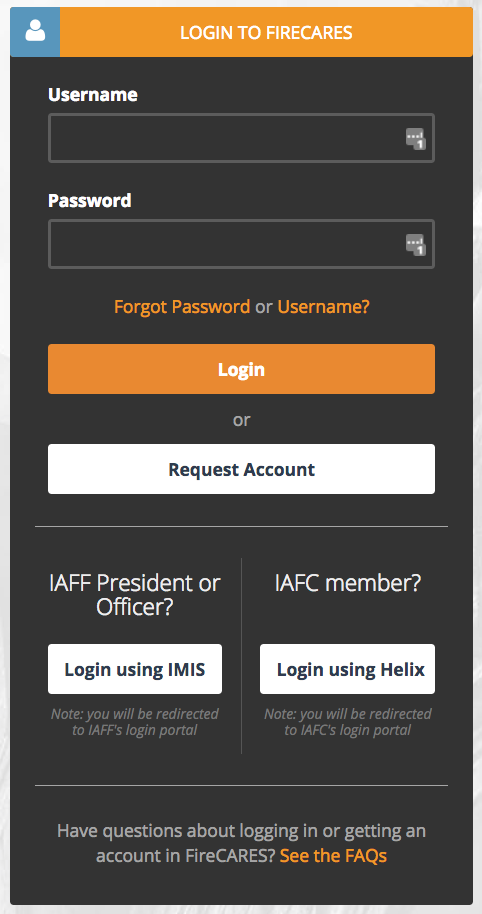
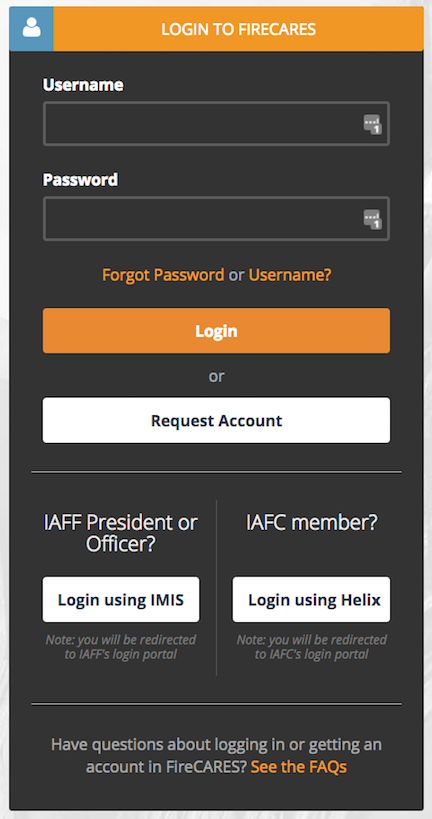
update User Guide and cleanup images

diff --git a/User_Guide/User_Guide.tex b/User_Guide/User_Guide.tex
@@ -54,9 +54,9 @@ are deployed to match a community's risks. \\
 \frontmatter
 \pagecolor{white}
 
-\newpage
-\hspace{5in}
-\newpage
+% \newpage
+% \hspace{5in}
+% \newpage
 
 \pagestyle{fancy}{
 \fancyhf{}
@@ -200,7 +200,7 @@ A community's set of safe grades represent an assessment of the number of fires,
 
 For each category, your department is compared against similar departments and based on the risk group (low, medium, high) the community falls within for the respective category (see above). Then based on your performance score relative to those other departments, your safe grade is either good, fair, or poor. A {\it good}, safe grade represents the top 25\%, a {\it fair} safe grade represents the median 50\%, and a {\it poor} safe grade represents the bottom 25\%.
 
-Note that all three scores can be filtered by the hazard level of structures: low, medium, and high as defined by NFPA. This is filterable on the department landing page by clicking on the the hazard level bar above the performance score. 
+All three scores can be filtered by the hazard level of structures: low, medium, and high as defined by NFPA. This is filterable on the department landing page by clicking on the the hazard level bar above the performance score. 
 
 \chapter{Using FireCARES.org}
 
@@ -224,7 +224,7 @@ If you know the department you are looking for, enter it in the search bar and c
 
 \FloatBarrier
 
-Clicking on a department's map image or name will take you to that departments landing page. Note that if you are not logged in, the department page will look like Figure~\ref{fig:department_page_nologin}. Note that of the three scores generated by FireCARES, only the community risk scores are available without login. The fire department performance score and safe grades are only available upon login.
+Clicking on a department's map image or name will take you to that departments landing page. Note that if you are not logged in, the department page will look like Figure~\ref{fig:department_page_nologin}. For the three scores generated by FireCARES, only the community risk scores are available without login. The fire department performance score and safe grades are only available upon login and will appear `gray-ed out'.
 
 \begin{figure}[ht!]
 \centering
@@ -233,39 +233,33 @@ Clicking on a department's map image or name will take you to that departments l
 \label{fig:department_page_nologin}
 \end{figure}
 
+\FloatBarrier
+
 \section{Logging In}
 
-Login credentials will be granted to the fire chief, the local union president (when applicable) and/or their designees. If you are an IAFF president or an IAFF officer, you can login using your IMIS credentials. If you an IAFC member, you can login using your Helix credentials. Figure~\ref{fig:login} shows the FireCARES login dialog box.
+Login credentials will be granted to the fire chief, the local union president (when applicable) and/or their designees. If you are an IAFF president or an IAFF officer, you can login using your IMIS credentials. If you an IAFC member, you can login using your Helix credentials. The left image in Figure~\ref{fig:login} shows the FireCARES login dialog box.
 
 \begin{figure}[ht!]
 \centering
-\includegraphics[width=.5\columnwidth]{Figures/login}
-\caption{FireCARES Login Dialog}
+\includegraphics[width=.45\columnwidth]{Figures/login}
+\includegraphics[width=.45\columnwidth]{Figures/login2}
+\caption{FireCARES Login Dialog (left) and Registration Dialog (right)}
 \label{fig:login}
 \end{figure}
 
-If you do not have an account, are not sure if you have an account, or IMIS/Helix to not apply, click on the request account box. Enter your email and click the `Check registration' box. If you do have an account, a request for an account from that email address will be made. If an account associated with that email exists, then you will be redirected back to the login page. 
+If you do not have an account, are not sure if you have an account, or IMIS/Helix do not apply, click on the request account box. Enter your email and click the `Check registration' box. If you do have an account, a request for an account from that email address will be made. If an account associated with that email exists, then you will be redirected back to the login page. 
 
-\FloatBarrier
-
-Once an email has been approved, the user will be directed to the registration screen. This dialog box will require you to enter your name, email address, login username and password.  Following entry of these attributes, the user will click the ``Register'' icon (cf. Figure~\ref{fig:login2}). Users will then be able to log into FireCARES.
-
-\begin{figure}[ht!]
-\centering
-\includegraphics[width=.5\columnwidth]{Figures/login2}
-\caption{FireCARES Register Dialog}
-\label{fig:login2}
-\end{figure}
+Once an email has been approved, the user will be directed to the registration screen. This dialog box will require you to enter your name, email address, login username and password.  Following entry of these attributes, the user will click the ``Register'' icon (see right image in Figure~\ref{fig:login}). Users will then be able to log into FireCARES.
 
 An authenticated user can provide login authority to others in their department as they deem necessary and appropriate, but must keep a record of those authorized. To provide login authority, the Chief and/or local union president will provide a list of eligible emails to FireCARES administration.  Upon receipt, logins will be created for each email provided.
 
 To minimize logins being shared, a robust password should be implemented upon registration. Changing passwords on 90 day cycles is strongly encouraged but will not initially be required.
 
-\FloatBarrier
+\clearpage
 
 \section{Department Details}
 
-Once logged in, users will now see the two additional scores (performance score and safe grades) as well as other features for the department. From Figure~\ref{fig:department_page}, you can see that the performance score and safe grades are also active along with the publicly available community risk score.
+Once logged in, users will now see the two additional scores (performance score and safe grades) as well as other features for the department. From Figure~\ref{fig:department_page}, you can see that the performance score and safe grades are active down the right side of the page along with with the publicly available community risk score below the map.
 
 \begin{figure}[ht!]
 \centering
@@ -274,7 +268,7 @@ Once logged in, users will now see the two additional scores (performance score 
 \label{fig:department_page}
 \end{figure}
 
-When viewing your department's page, the first item to check is to ensure that your department's jurisdictional boundary (the blue outline in Figure~\ref{fig:department_page}) is present and correct.  From your boundary, both your protected area and protected population are calculated (cf. Figure~\ref{fig:description}). The protected population is determined using US Census data. If you notice differences in your population, your protected area, or if your boundary has changed, please send an email to: \href{mailto:boundaries@firecares.org}{Contact Us: Boundaries}. Be sure to include your Fire Department Name and FDID as it is specified on \href{https://www.FireCARES.org}{FireCARES.org}. If you send an updated GIS shapefile for your jurisdictional boundary, the preferred projection is WGS84, however we can convert if the existing projection is specified.
+When viewing your department's page, the first item to check is to ensure that your department's jurisdictional boundary (the blue outline in Figure~\ref{fig:department_page}) is present and accurate.  From your boundary, both your protected area and protected population are calculated (cf. Figure~\ref{fig:description}). The protected population is determined using US Census data. If you notice differences in your population, your protected area, or if your boundary has changed, please send an email to: \href{mailto:boundaries@firecares.org}{Contact Us: Boundaries}. Be sure to include your Fire Department Name and FDID as it is specified on \href{https://www.FireCARES.org}{FireCARES.org}. If you send an updated GIS shapefile for your jurisdictional boundary, the preferred projection is WGS84, however we can convert if the existing projection is specified.
 
 \begin{figure}[ht!]
 \centering
@@ -330,6 +324,8 @@ Users can also select a particular station from the station list and that statio
 \caption{GIS based response polygons for 0-4 minute travel times, 4-6 minute travel times, and 6-8 minute travel times.}
 \label{fig:response_area}
 \end{figure}
+
+\FloatBarrier
 
 In addition to the service area calculations, apparatus and staffing tables can be completed on each station detail page. Departments are requested to complete station tables so that additional GIS features like effective response force (ERF) assembly times by hazard levels, which is coming soon, can be completed. The ERF is calculated by hazard levels. Figure~\ref{fig:staffing} shows an example of the form for entering your staffing data. Users can select an apparatus type, the number of personnel, and whether advanced life support is provided, when applicable. After entering the data, remember to click `Save' before clicking on the `Add Apparatus' tab.
 
@@ -409,19 +405,22 @@ This work has been funded by DHS/FEMA's Assistance to Firefighter's Grant progra
 \item National Institute of Standards and Technology (NIST)
 \item Urban Institute
 \item The University of Texas at Austin
+\item International Association of Fire Chiefs (IAFC)
+\item Metropolitan Fire Chiefs
 \end{itemize}
 
-Other organizations that have helped with this project include the International Association of Fire Chiefs (IAFC), Metropolitan Fire Chiefs, and Worcester Polytechnic University (WPI).
+Other organizations that have helped with this project include Worcester Polytechnic University (WPI).
 
-\chapter{List of Acronyms}
+\chapter{List of Abbreviations}
 
 \begin{tabbing}
 \hspace{1.5in} \= \\
 
 DHS \> Department of Homeland Security \\
-ERF \> Effective Response Force \\
+ERF \> Effective response force \\
 FDID \> Fire Department ID \\
 FEMA \> Federal Emergency Management Agency \\
+GIS \>  Geographic information system \\
 IAFC \> International Association of Fire Chiefs \\
 IAFF \> International Association of Fire Fighters \\
 UL FSRI \> UL Firefighter Safety Research Institute \\
